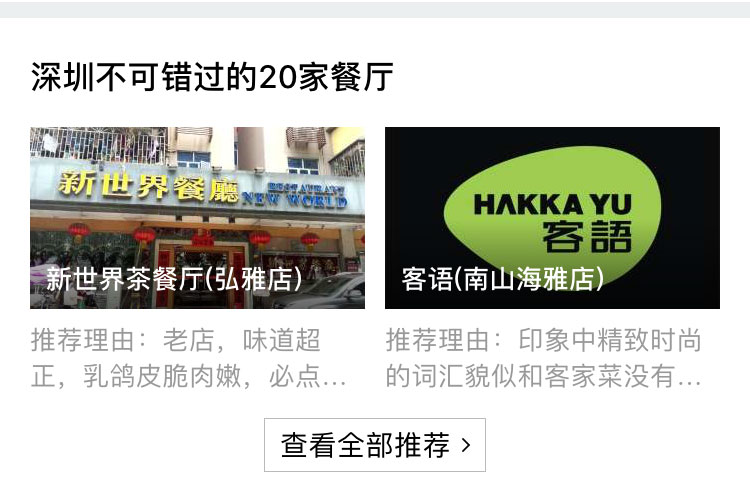
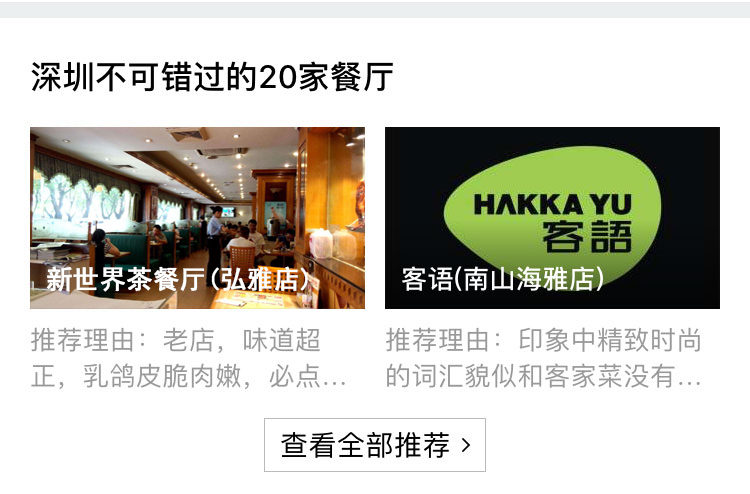
门店详情

Changed region(s): [[0.0307, 0.2429, 0.4907, 0.6377]]

diff --git a/main/shopdetail.html b/main/shopdetail.html
@@ -13,24 +13,27 @@
 		<link rel="stylesheet" href="../fonts/iconfont.css">
 		<link rel="stylesheet" href="../css/layer.css">
 		<link rel="stylesheet" href="../css/app.css">
+		<style type="text/css">
+			.wb-content{padding-bottom: 70px;}
+		</style>
 	</head>
 
 	<body>
 		<div class="wb-head">
 			<a class="wb-back iconfont icon-fanhui"></a>
-			<p class="wb-title">深圳特色餐厅推荐</p>
+			<p class="wb-title">新世界茶餐厅</p>
 		</div>
 		<div class="wb-content">
-			<img src="../img/shop1.jpg"/>
-			<a href="shopdetail.html"><img src="../img/shop2.jpg"/></a>
-			<img src="../img/shop3.jpg"/>
-			<img src="../img/shop4.jpg"/>
-			<img src="../img/shop5.jpg"/>
-			<img src="../img/shop6.jpg"/>
-			<img src="../img/shop7.jpg"/>
-			<img src="../img/shop8.jpg"/>
-			<img src="../img/shop9.jpg"/>
+			<img src="../img/sdtail1.jpg"/>
+			<img src="../img/sdtail2.jpg"/>
+			<img src="../img/sdtail3.jpg"/>
+			<img src="../img/sdtail4.jpg"/>
+			<img src="../img/sdtail5.jpg"/>
+			<img src="../img/sdtail6.jpg"/>
+			<img src="../img/sdtail7.jpg"/>
+			<img src="../img/sdtail8.jpg"/>
 		</div>
+		<p class="wb-footer wb-btn btn-red">买单领小幸运红包</p>
 	</body>
 	
 	<script src="http://libs.baidu.com/jquery/2.0.0/jquery.min.js"></script>
